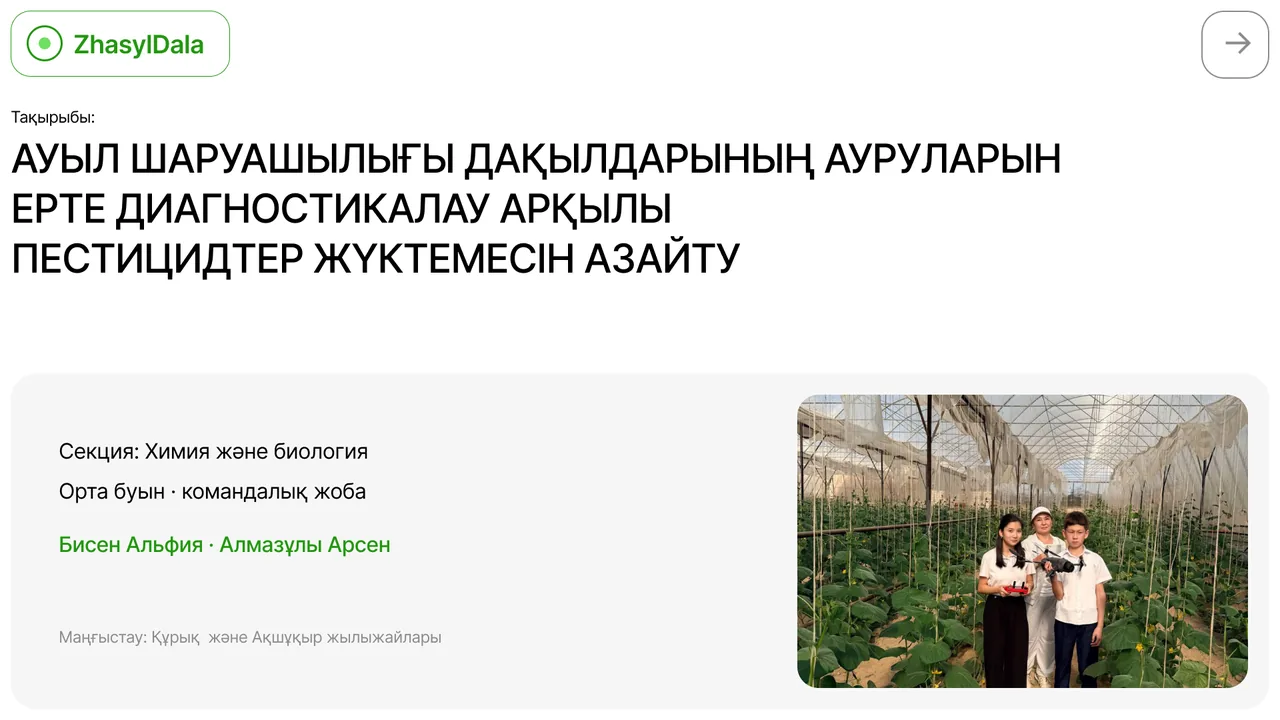
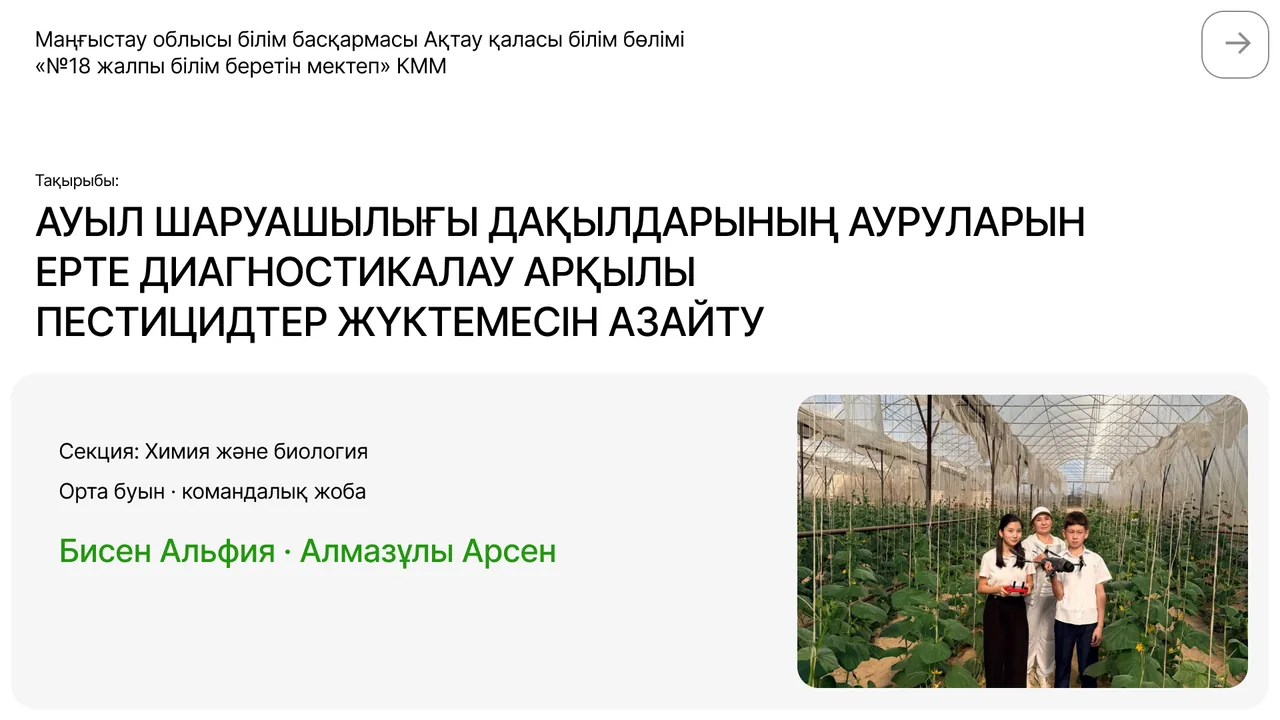
Update the title slide of the web deck from Figma
The school header replaces the ZhasylDala badge. V bumped so browsers
that cached the old slide for a week fetch the new one.

diff --git a/frontend/public/deck/index.html b/frontend/public/deck/index.html
@@ -91,7 +91,7 @@ const pad = (n) => String(n).padStart(2, "0");
 // The server lets browsers keep the slides and clips for a week (see
 // WHITENOISE_ADD_HEADERS_FUNCTION), so bump this whenever a file in s/ or v/
 // is replaced — otherwise returning viewers would keep the old picture.
-const V = "2";
+const V = "3";
 const frame = document.getElementById("frame");
 const els = SLIDES.map((s, i) => {
   const sec = document.createElement("section");
